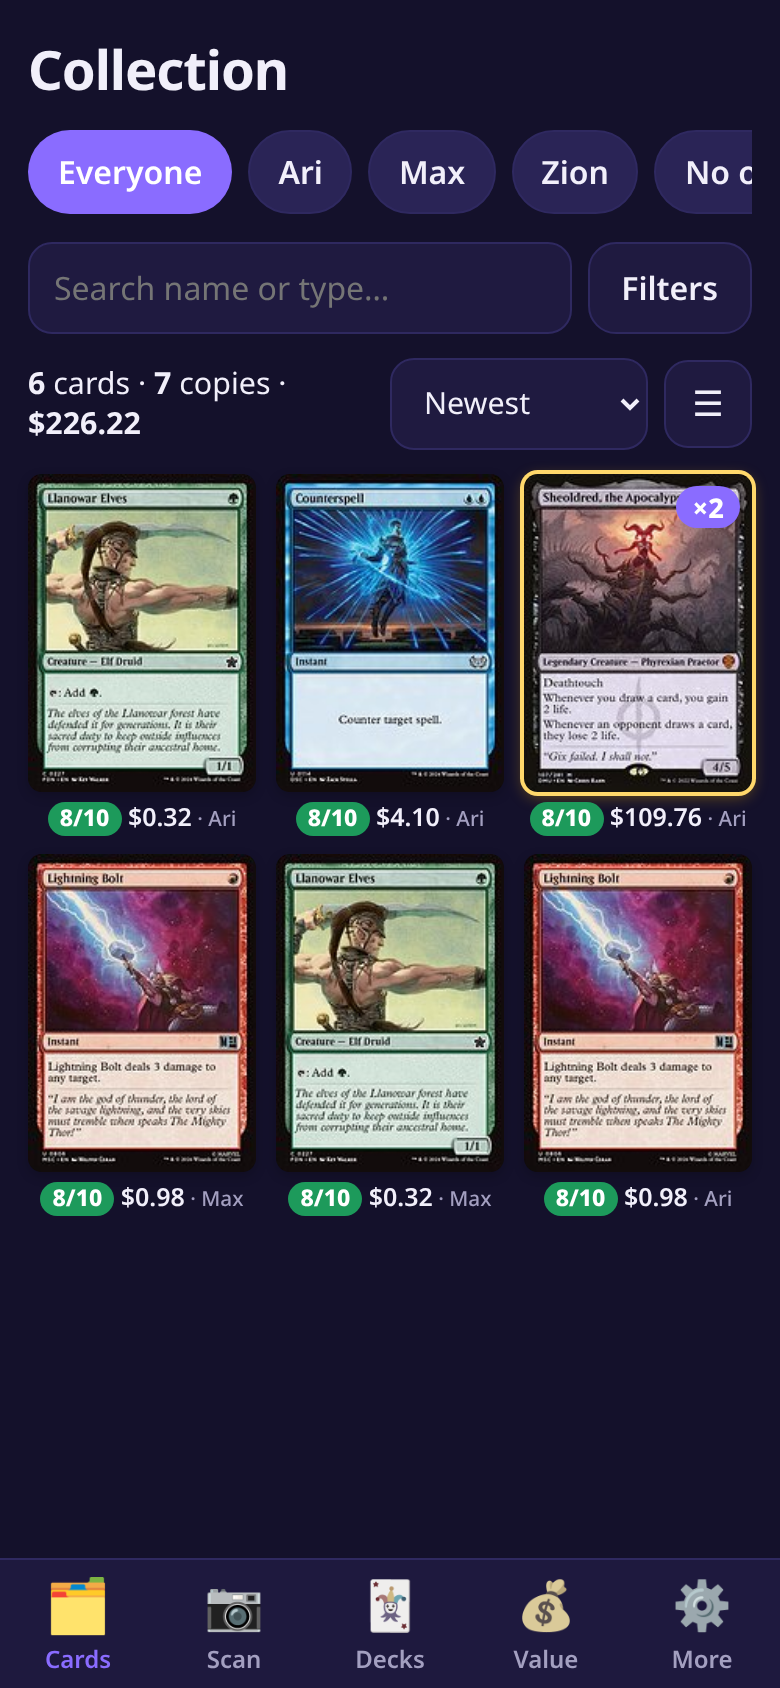
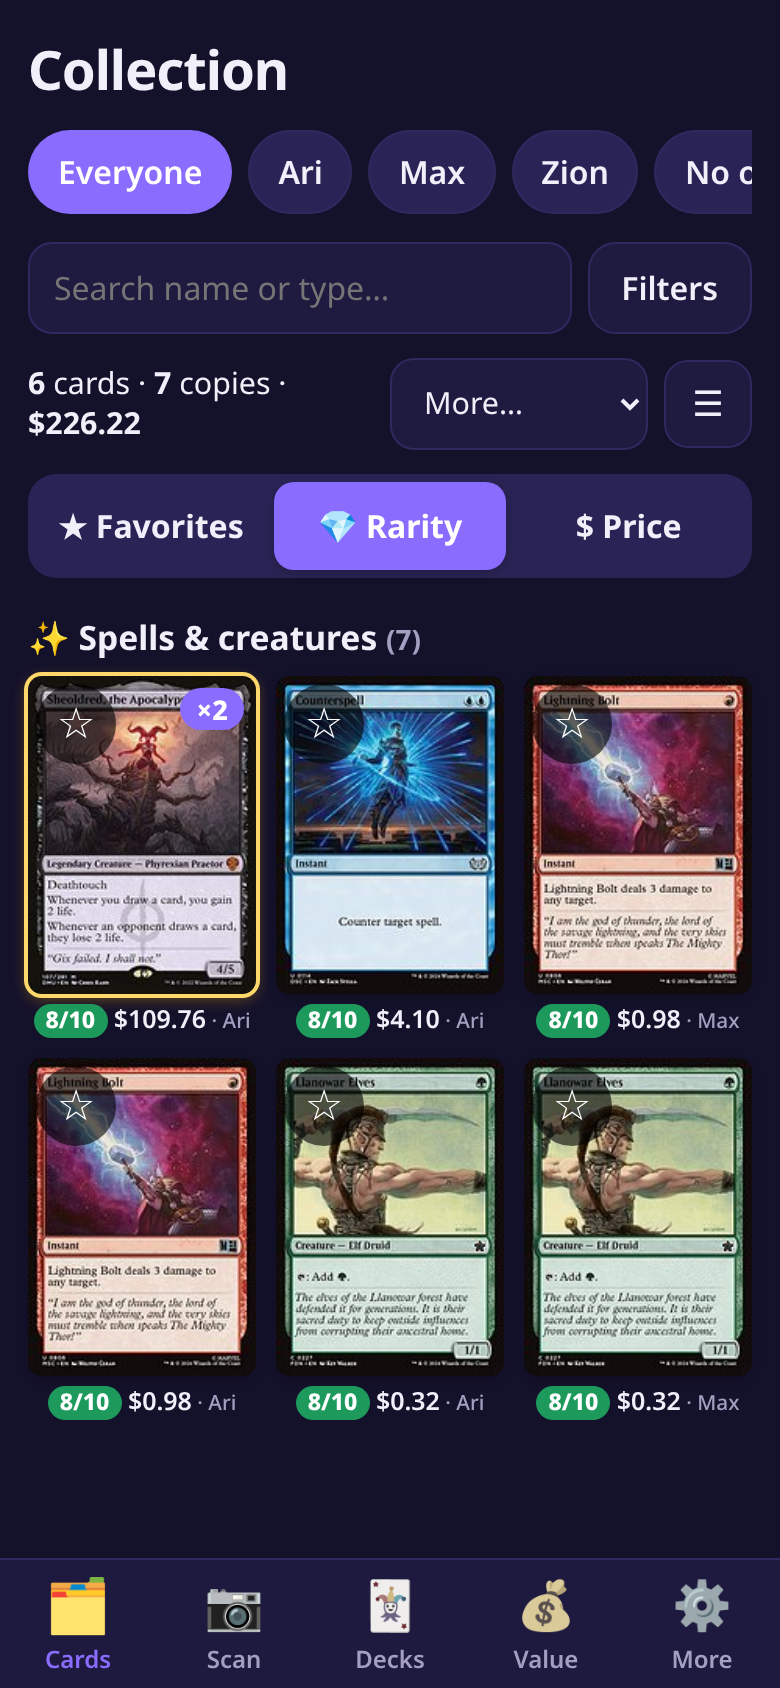
v1.2.0: lands section, favorites (pinned, persisted, migrated), single-owner chips, rarity default + Favorites/Rarity/Price sort buttons (remembered)

diff --git a/src/components/Collection.tsx b/src/components/Collection.tsx
@@ -2,6 +2,8 @@ import { useMemo, useState } from 'react';
 import { useStore, type Row } from '../lib/store';
 import { Chips, ManaDot, MANA_COLORS, Sheet, Stepper } from './ui';
 import { EditGroupsButton } from './Groups';
+import { isLand } from '../games/mtg/roles';
+import { FavStar } from './FavStar';
 import { RatingBadge, ratingOf } from './Rating';
 import { fallbackPriceLabel, fmtUsd, unitUsd } from '../lib/price';
 import { addToCollection, deleteEntry, putEntry } from '../lib/db';
@@ -10,8 +12,15 @@ import type { CardData, Finish } from '../games/types';
 
 const TYPES = ['Creature', 'Instant', 'Sorcery', 'Artifact', 'Enchantment', 'Planeswalker', 'Land', 'Battle'];
 const RARITIES = ['common', 'uncommon', 'rare', 'mythic'];
-const RANK: Record<string, number> = { common: 0, uncommon: 1, rare: 2, mythic: 3, special: 4, bonus: 4 };
-type SortKey = 'name' | 'value' | 'mv' | 'rarity' | 'set' | 'added' | 'qty' | 'rating';
+// mythic > rare > uncommon > common > special/bonus (basic lands are common and fall in with commons)
+const RANK: Record<string, number> = { mythic: 4, rare: 3, uncommon: 2, common: 1, special: 0, bonus: 0 };
+const SORT_KEY = 'ck.sort';
+type SortKey = 'favorites' | 'rarity' | 'value' | 'rating' | 'name' | 'mv' | 'set' | 'added' | 'qty';
+const MAIN_SORTS: { id: SortKey; label: string }[] = [
+  { id: 'favorites', label: '★ Favorites' },
+  { id: 'rarity', label: '💎 Rarity' },
+  { id: 'value', label: '$ Price' },
+];
 const ALL = '__all__';
 const NONE = '__none__';
 
@@ -26,7 +35,11 @@ export function Collection() {
   const [mv, setMv] = useState('');
   const [minValue, setMinValue] = useState('');
   const [foilOnly, setFoilOnly] = useState(false);
-  const [sort, setSort] = useState<SortKey>('added');
+  const [sort, setSortState] = useState<SortKey>(() => (localStorage.getItem(SORT_KEY) as SortKey) || 'rarity');
+  const setSort = (k: SortKey) => {
+    setSortState(k);
+    localStorage.setItem(SORT_KEY, k);
+  };
   const [view, setView] = useState<'grid' | 'list'>('grid');
   const [showFilters, setShowFilters] = useState(false);
   const [detail, setDetail] = useState<Row | null>(null);
@@ -59,19 +72,27 @@ export function Collection() {
       if (minValue && (r.unit ?? 0) < Number(minValue)) return false;
       return true;
     });
+    const byRarity = (a: Row, b: Row) => (RANK[b.card.rarity] ?? 0) - (RANK[a.card.rarity] ?? 0) || a.card.name.localeCompare(b.card.name);
     const cmp: Record<SortKey, (a: Row, b: Row) => number> = {
+      favorites: byRarity,
       name: (a, b) => a.card.name.localeCompare(b.card.name),
-      value: (a, b) => (b.unit ?? -1) - (a.unit ?? -1),
+      value: (a, b) => (b.unit ?? -1) - (a.unit ?? -1) || a.card.name.localeCompare(b.card.name),
       mv: (a, b) => a.card.cmc - b.card.cmc || a.card.name.localeCompare(b.card.name),
-      rarity: (a, b) => (RANK[b.card.rarity] ?? 0) - (RANK[a.card.rarity] ?? 0),
+      rarity: byRarity,
       set: (a, b) => a.card.setName.localeCompare(b.card.setName) || a.card.collectorNumber.localeCompare(b.card.collectorNumber, undefined, { numeric: true }),
       added: (a, b) => b.entry.addedAt - a.entry.addedAt,
       qty: (a, b) => b.entry.qty - a.entry.qty,
       rating: (a, b) => ratingOf(b.card).score - ratingOf(a.card).score || (b.unit ?? 0) - (a.unit ?? 0),
     };
-    return out.sort(cmp[sort]);
+    // Favorites are always pinned to the top; the chosen sort applies within favorites and within the rest.
+    const fav = (r: Row) => (r.entry.favorite ? 1 : 0);
+    return out.sort((a, b) => fav(b) - fav(a) || cmp[sort](a, b));
   }, [rows, q, owner, colors, type, rarity, set, mv, foilOnly, minValue, sort]);
 
+  const sections: [string, Row[]][] = [
+    ['Spells', filtered.filter((r) => !isLand(r.card))],
+    ['Lands', filtered.filter((r) => isLand(r.card))],
+  ];
   const copies = filtered.reduce((a, r) => a + r.entry.qty, 0);
   const value = filtered.reduce((a, r) => a + r.value, 0);
   const activeFilters = [colors.length, type, rarity, set, mv, foilOnly, minValue].filter(Boolean).length;
@@ -171,20 +192,32 @@ export function Collection() {
           <b>{filtered.length}</b> cards · <b>{copies}</b> copies · <b>{fmtUsd(value)}</b>
         </span>
         <span className="row gap">
-          <select value={sort} onChange={(e) => setSort(e.target.value as SortKey)} aria-label="Sort">
-            <option value="added">Newest</option>
-            <option value="name">Name</option>
-            <option value="value">Value $</option>
+          <select
+            value={MAIN_SORTS.some((m) => m.id === sort) ? '' : sort}
+            onChange={(e) => e.target.value && setSort(e.target.value as SortKey)}
+            aria-label="More sorts"
+            className={MAIN_SORTS.some((m) => m.id === sort) ? '' : 'on-select'}
+          >
+            <option value="">More…</option>
             <option value="rating">Deck rating</option>
+            <option value="name">Name</option>
             <option value="mv">Mana value</option>
-            <option value="rarity">Rarity</option>
             <option value="set">Set</option>
+            <option value="added">Newest</option>
             <option value="qty">Quantity</option>
           </select>
           <button className="icon-btn" onClick={() => setView(view === 'grid' ? 'list' : 'grid')} aria-label="Toggle view">
             {view === 'grid' ? '☰' : '▦'}
           </button>
         </span>
+      </div>
+
+      <div className="segmented" role="group" aria-label="Sort by" data-testid="sort-buttons">
+        {MAIN_SORTS.map((m) => (
+          <button key={m.id} className={sort === m.id ? 'on' : ''} aria-pressed={sort === m.id} onClick={() => setSort(m.id)}>
+            {m.label}
+          </button>
+        ))}
       </div>
 
       {rows.length === 0 && (
@@ -194,44 +227,57 @@ export function Collection() {
         </div>
       )}
 
-      {view === 'grid' ? (
-        <div className="grid">
-          {filtered.map((r) => (
-            <button key={r.entry.key} className={`grid-card ${r.entry.finish !== 'nonfoil' ? 'foil' : ''}`} onClick={() => setDetail(r)}>
-              <img src={r.card.imageSmall} alt={r.card.name} loading="lazy" />
-              {r.entry.qty > 1 && <span className="qty">×{r.entry.qty}</span>}
-              <span className="cap">
-                <RatingBadge card={r.card} compact /> {fmtUsd(r.unit)}
-                {r.entry.owners.length > 0 && <small> · {r.entry.owners.join(', ')}</small>}
-              </span>
-            </button>
-          ))}
-        </div>
-      ) : (
-        <ul className="list">
-          {filtered.map((r) => (
-            <li key={r.entry.key}>
-              <button onClick={() => setDetail(r)}>
-                <img src={r.card.imageSmall} alt="" loading="lazy" />
-                <span className="grow">
-                  <b>
-                    {r.entry.qty}× {r.card.name}
-                  </b>
-                  {r.entry.finish !== 'nonfoil' && ' ✨'}
-                  <br />
-                  <small className="muted">
-                    <RatingBadge card={r.card} compact /> {r.card.set.toUpperCase()} · {r.card.rarity} · {r.entry.owners.join(', ') || 'no owner'}
-                  </small>
-                </span>
-                <span className="val">
-                  {fmtUsd(r.value)}
-                  <br />
-                  <small className="muted">{fmtUsd(r.unit)} ea</small>
-                </span>
-              </button>
-            </li>
-          ))}
-        </ul>
+      {sections.map(([title, list]) =>
+        list.length === 0 ? null : (
+          <section key={title} className="coll-section" data-testid={`section-${title}`}>
+            <h2 className="section-head">
+              {title === 'Lands' ? '🏔 Lands' : '✨ Spells & creatures'} <small className="muted">({list.reduce((a, r) => a + r.entry.qty, 0)})</small>
+            </h2>
+            {view === 'grid' ? (
+              <div className="grid">
+                {list.map((r) => (
+                  <div key={r.entry.key} className={`grid-card ${r.entry.finish !== 'nonfoil' ? 'foil' : ''} ${r.entry.favorite ? 'fav' : ''}`}>
+                    <button className="tile" onClick={() => setDetail(r)}>
+                      <img src={r.card.imageSmall} alt={r.card.name} loading="lazy" />
+                      {r.entry.qty > 1 && <span className="qty">×{r.entry.qty}</span>}
+                      <span className="cap">
+                        <RatingBadge card={r.card} compact /> {fmtUsd(r.unit)}
+                        {r.entry.owners.length > 0 && <small> · {r.entry.owners.join(', ')}</small>}
+                      </span>
+                    </button>
+                    <FavStar entryKey={r.entry.key} on={!!r.entry.favorite} name={r.card.name} />
+                  </div>
+                ))}
+              </div>
+            ) : (
+              <ul className="list">
+                {list.map((r) => (
+                  <li key={r.entry.key} className="row">
+                    <FavStar entryKey={r.entry.key} on={!!r.entry.favorite} name={r.card.name} inline />
+                    <button onClick={() => setDetail(r)}>
+                      <img src={r.card.imageSmall} alt="" loading="lazy" />
+                      <span className="grow">
+                        <b>
+                          {r.entry.qty}× {r.card.name}
+                        </b>
+                        {r.entry.finish !== 'nonfoil' && ' ✨'}
+                        <br />
+                        <small className="muted">
+                          <RatingBadge card={r.card} compact /> {r.card.set.toUpperCase()} · {r.card.rarity} · {r.entry.owners.join(', ') || 'no owner'}
+                        </small>
+                      </span>
+                      <span className="val">
+                        {fmtUsd(r.value)}
+                        <br />
+                        <small className="muted">{fmtUsd(r.unit)} ea</small>
+                      </span>
+                    </button>
+                  </li>
+                ))}
+              </ul>
+            )}
+          </section>
+        ),
       )}
       {detail && <CardDetail row={detail} onClose={() => setDetail(null)} />}
     </div>
@@ -248,7 +294,7 @@ function CardDetail({ row, onClose }: { row: Row; onClose: () => void }) {
   async function save() {
     if (card.id !== row.card.id) {
       await deleteEntry(entry.key);
-      await addToCollection(card, entry.qty, entry.finish, entry.owners);
+      await addToCollection(card, entry.qty, entry.finish, entry.owners, entry.favorite);
     } else await putEntry(entry);
     await reload();
     toast('Saved');
@@ -291,8 +337,11 @@ function CardDetail({ row, onClose }: { row: Row; onClose: () => void }) {
             </div>
           )}
         </div>
-        <label className="lbl">Owners</label>
-        <Chips options={groups.map((g) => ({ id: g, label: g }))} value={entry.owners} onChange={(o) => setEntry({ ...entry, owners: o })} multi />
+        <div className="row gap">
+          <FavStar entryKey={entry.key} on={!!entry.favorite} name={card.name} inline onChange={(f) => setEntry((e) => ({ ...e, favorite: f }))} label />
+        </div>
+        <label className="lbl">Owner</label>
+        <Chips options={groups.map((g) => ({ id: g, label: g }))} value={entry.owners.slice(0, 1)} onChange={(o) => setEntry({ ...entry, owners: o })} />
         <label className="lbl">Finish</label>
         <Chips<Finish>
           options={[

diff --git a/src/lib/db.ts b/src/lib/db.ts
@@ -42,17 +42,18 @@ export const getMeta = async <T,>(k: string, def: T): Promise<T> => ((await (awa
 export const setMeta = async (k: string, v: any) => (await db()).put('meta', v, k);
 
 /** Add a card to the collection, merging with an identical entry (same printing, finish, owners). */
-export async function addToCollection(card: CardData, qty: number, finish: CollectionEntry['finish'], owners: string[]) {
+export async function addToCollection(card: CardData, qty: number, finish: CollectionEntry['finish'], owners: string[], favorite = false) {
   await putCards([card]);
   const all = await (await db()).getAllFromIndex('collection', 'byCard', card.id);
   const key = [...owners].sort().join('|');
   const same = all.find((e) => e.finish === finish && [...e.owners].sort().join('|') === key);
   if (same) {
     same.qty += qty;
+    if (favorite) same.favorite = true;
     await putEntry(same);
     return same;
   }
-  const e: CollectionEntry = { key: uid(), game: card.game, cardId: card.id, qty, finish, owners, addedAt: Date.now() };
+  const e: CollectionEntry = { key: uid(), game: card.game, cardId: card.id, qty, finish, owners, favorite, addedAt: Date.now() };
   await putEntry(e);
   return e;
 }
@@ -91,7 +92,7 @@ export async function importAll(b: Backup, mode: 'merge' | 'replace') {
   }
   await putCards(b.cards ?? []);
   const tx = d.transaction(['collection', 'decks'], 'readwrite');
-  for (const e of b.collection ?? []) tx.objectStore('collection').put(e);
+  for (const e of b.collection ?? []) tx.objectStore('collection').put({ ...e, favorite: e.favorite ?? false });
   for (const k of b.decks ?? []) tx.objectStore('decks').put(k);
   await tx.done;
   const groups = new Set([...(mode === 'merge' ? await getMeta('groups', [] as string[]) : []), ...(b.groups ?? [])]);
@@ -101,7 +102,7 @@ export async function importAll(b: Backup, mode: 'merge' | 'replace') {
 
 // ---------- owner groups ----------
 export const DEFAULT_GROUPS = ['Ari', 'Max', 'Zion'];
-const SCHEMA = 2;
+const SCHEMA = 3;
 
 /** One-time data migrations for existing installs (runs on every app start, idempotent). */
 export async function migrate() {
@@ -110,6 +111,13 @@ export async function migrate() {
   if (groups === null) groups = [...DEFAULT_GROUPS]; // fresh install
   if (v < 2 && !groups.includes('Zion')) groups = [...groups, 'Zion']; // v1 -> v2: add Zion
   await setMeta('groups', groups);
+  if (v < 3) {
+    // v2 -> v3: favorites flag on every collection entry
+    const d = await db();
+    const tx = d.transaction('collection', 'readwrite');
+    for (const e of await tx.store.getAll()) if (e.favorite === undefined) tx.store.put({ ...e, favorite: false });
+    await tx.done;
+  }
   if (v < SCHEMA) await setMeta('schemaVersion', SCHEMA);
 }
 
@@ -146,4 +154,11 @@ export async function deleteGroup(name: string, mode: DeleteGroupMode) {
     if (k.options.ownerGroup === name)
       tx.objectStore('decks').put({ ...k, options: { ...k.options, ownerGroup: mode.kind === 'move' ? mode.to : '__all__' } });
   await tx.done;
+}
+
+export async function toggleFavorite(key: string) {
+  const d = await db();
+  const e = await d.get('collection', key);
+  if (e) await d.put('collection', { ...e, favorite: !e.favorite });
+  return !e?.favorite;
 }

diff --git a/src/components/Scan.tsx b/src/components/Scan.tsx
@@ -18,6 +18,7 @@ export function Scan() {
   const [owners, setOwners] = useState<string[]>(groups.slice(0, 1));
   const [finish, setFinish] = useState<Finish>('nonfoil');
   const [qty, setQty] = useState(1);
+  const [fav, setFav] = useState(false);
   const [match, setMatch] = useState<CardData | null>(null);
   const [status, setStatus] = useState<string>('');
   const [busy, setBusy] = useState(false);
@@ -29,7 +30,7 @@ export function Scan() {
   const fileRef = useRef<HTMLInputElement>(null);
 
   useEffect(() => {
-    if (!owners.length && groups.length) setOwners([groups[0]]);
+    if ((!owners.length || !groups.includes(owners[0])) && groups.length) setOwners([groups[0]]);
   }, [groups]); // eslint-disable-line
 
   async function recognize(img: HTMLImageElement | HTMLCanvasElement, framed: boolean) {
@@ -84,12 +85,13 @@ export function Scan() {
 
   async function add() {
     if (!match) return;
-    const e = await addToCollection(match, qty, finish, owners);
+    const e = await addToCollection(match, qty, finish, owners.slice(0, 1), fav);
     setRecent((r) => [{ key: e.key, name: match.name, qty, img: match.imageSmall }, ...r].slice(0, 20));
     await reload();
     toast(`Added ${qty}× ${match.name}${owners.length ? ` to ${owners.join(' + ')}` : ''}`);
     setMatch(null);
     setQty(1);
+    setFav(false);
     setStatus('Ready for the next card!');
     setCrop(undefined);
     setOcrLines([]);
@@ -110,9 +112,9 @@ export function Scan() {
     <div className="page">
       <h1>Scan cards</h1>
       <section className="card-box">
-        <label className="lbl">Whose cards?</label>
+        <label className="lbl">Whose cards? <small className="muted">(one owner)</small></label>
         <div className="chips">
-          <Chips options={groups.map((g) => ({ id: g, label: g }))} value={owners} onChange={setOwners} multi />
+          <Chips options={groups.map((g) => ({ id: g, label: g }))} value={owners} onChange={setOwners} />
           <EditGroupsButton />
         </div>
         <div className="row gap">
@@ -182,6 +184,9 @@ export function Scan() {
             </p>
             <div className="row gap wrap">
               <Stepper value={qty} onChange={setQty} />
+              <button className={`fav-star inline ${fav ? 'on' : ''}`} aria-pressed={fav} aria-label="Favorite" onClick={() => setFav(!fav)} data-testid="scan-fav">
+                {fav ? '★' : '☆'}
+              </button>
               <button className="btn primary" onClick={add} data-testid="add-btn">
                 ✅ Add {qty}
               </button>

diff --git a/src/index.css b/src/index.css
@@ -216,3 +216,16 @@ select { width: auto; }
 .rating-pill { font-size: 0.72rem; font-weight: 800; padding: 1px 6px; border-radius: 999px; background: var(--g); color: #fff; }
 .g-S { --g: #e8a317; } .g-A { --g: #1d9a5b; } .g-B { --g: #3a7bd5; } .g-C { --g: #8a84a8; } .g-D { --g: #c0485a; }
 .update-banner { position: fixed; left: 12px; right: 12px; top: calc(env(safe-area-inset-top) + 10px); z-index: 90; min-height: 52px; border: 0; border-radius: 16px; background: var(--accent); color: #fff; font-weight: 800; font-size: 1rem; box-shadow: 0 6px 20px #0006; }
+.segmented { display: grid; grid-template-columns: repeat(3, 1fr); background: var(--chip); border-radius: 14px; padding: 4px; gap: 4px; }
+.segmented button { min-height: 44px; border: 0; border-radius: 10px; background: transparent; font-weight: 750; }
+.segmented button.on { background: var(--accent); color: #fff; box-shadow: 0 2px 6px #0003; }
+select.on-select { border-color: var(--accent); color: var(--accent); font-weight: 700; }
+.section-head { font-size: 1.05rem; margin: 18px 0 8px; }
+.grid-card .tile { padding: 0; border: 0; background: none; width: 100%; color: inherit; text-align: center; }
+.grid-card.fav img { box-shadow: 0 0 0 3px #ffc83d, 0 2px 8px #0005; }
+.fav-star { position: absolute; top: 4px; left: 4px; width: 40px; height: 40px; border-radius: 50%; border: 0; background: #0009; color: #fff; font-size: 1.35rem; line-height: 1; display: grid; place-items: center; }
+.fav-star.on { color: #ffc83d; }
+.fav-star.inline { position: static; background: var(--chip); flex: none; width: auto; min-width: 44px; height: 44px; padding: 0 10px; border-radius: 12px; display: inline-flex; align-items: center; gap: 4px; font-size: 1.3rem; }
+.fav-star.inline span { font-size: 0.95rem; font-weight: 700; color: var(--fg); }
+.list li.row { gap: 6px; border-bottom: 1px solid var(--line); }
+.list li.row > button:last-child { flex: 1; border-bottom: 0; }

diff --git a/src/components/FavStar.tsx b/src/components/FavStar.tsx
@@ -1,0 +1,24 @@
+import { toggleFavorite } from '../lib/db';
+import { useStore } from '../lib/store';
+
+/** Star toggle for a collection entry (persists immediately). */
+export function FavStar({ entryKey, on, name, inline, label, onChange }: { entryKey: string; on: boolean; name: string; inline?: boolean; label?: boolean; onChange?: (f: boolean) => void }) {
+  const { reload } = useStore();
+  return (
+    <button
+      className={`fav-star ${inline ? 'inline' : ''} ${on ? 'on' : ''}`}
+      aria-pressed={on}
+      aria-label={on ? `Unfavorite ${name}` : `Favorite ${name}`}
+      data-testid="fav-star"
+      onClick={async (e) => {
+        e.stopPropagation();
+        const f = await toggleFavorite(entryKey);
+        onChange?.(f);
+        await reload();
+      }}
+    >
+      {on ? '★' : '☆'}
+      {label && <span>{on ? ' Favorite' : ' Add to favorites'}</span>}
+    </button>
+  );
+}

diff --git a/src/games/types.ts b/src/games/types.ts
@@ -50,7 +50,8 @@ export interface CollectionEntry {
   cardId: string;
   qty: number;
   finish: Finish;
-  owners: string[]; // group tags e.g. ["Ari"]
+  owners: string[]; // group tags e.g. ["Ari"] (UI assigns one owner per card)
+  favorite?: boolean;
   addedAt: number;
 }
 
